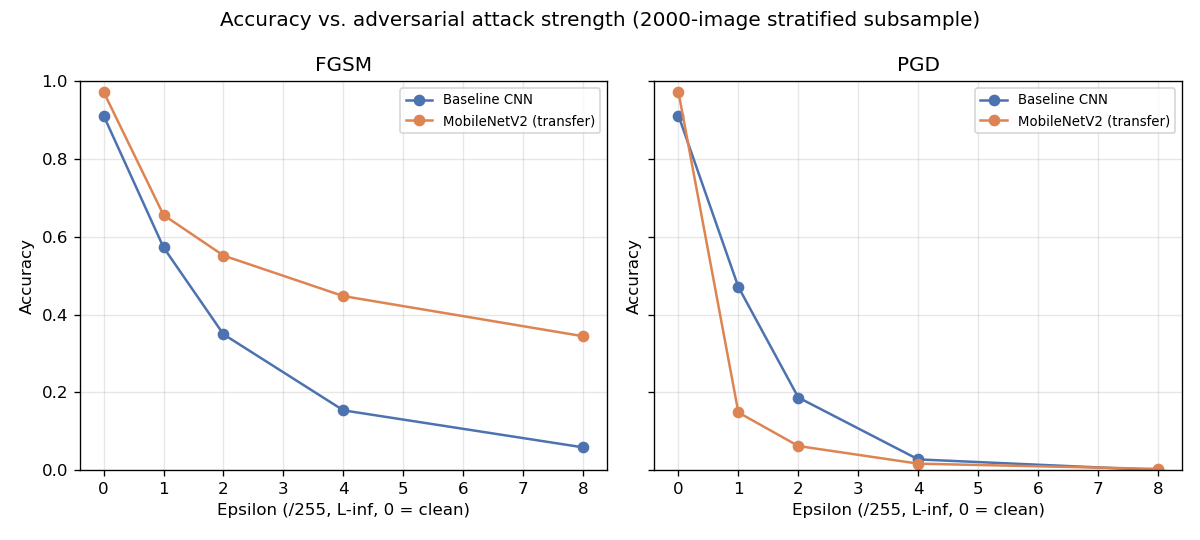
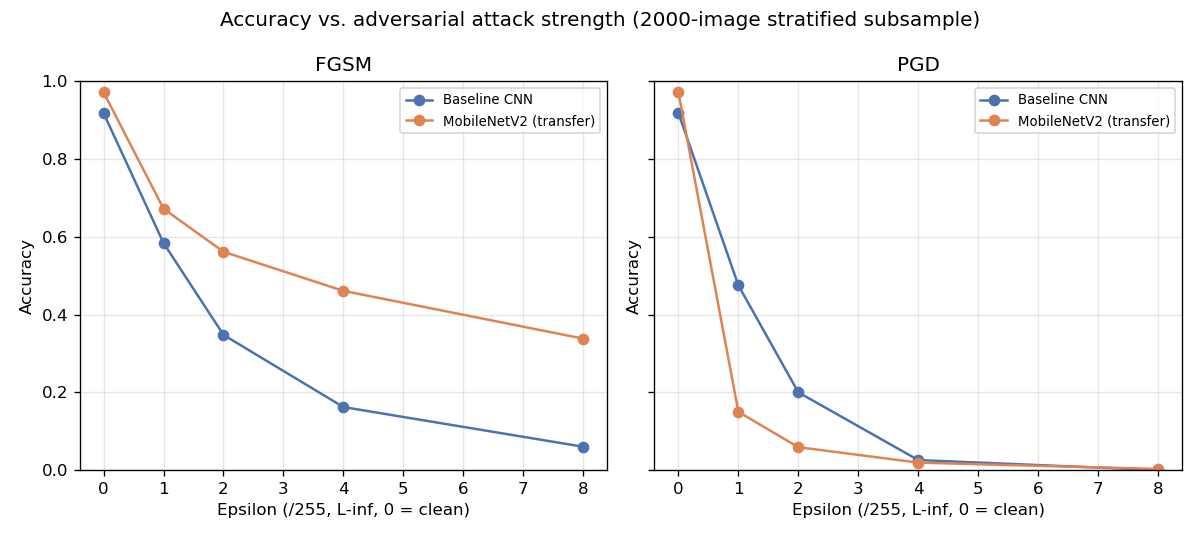
Use full test set for adversarial eval

diff --git a/scripts/eval_adversarial.py b/scripts/eval_adversarial.py
@@ -1,9 +1,6 @@
 """FGSM/PGD adversarial evaluation on the FP32 models (seed 42), across epsilon strengths.
 
-Uses a stratified subsample of the Test set (not the full 12,630 images): PGD requires a
-forward+backward pass per step, and at 10 steps x 4 epsilons x 2 models the full test set
-would take a long time for limited extra statistical value. 2000 stratified samples keeps
-per-class representation while making iterative attacks tractable.
+Runs on the full 12,630-image Test set.
 """
 
 import json
@@ -29,7 +26,6 @@ RAW_DIR = ROOT / "data" / "raw"
 CKPT_DIR = ROOT / "checkpoints"
 REPORTS_DIR = ROOT / "reports"
 
-N_SUBSAMPLE = 2000
 EPSILONS = [1 / 255, 2 / 255, 4 / 255, 8 / 255]
 PGD_STEPS = 10
 
@@ -47,13 +43,6 @@ ARCHS = {
         "ckpt": "mobilenet_transfer_seed42.pt",
     },
 }
-
-
-def stratified_subsample(df, n_total: int, seed: int):
-    frac_df = df.groupby("ClassId", group_keys=False).apply(
-        lambda g: g.sample(max(1, round(len(g) * n_total / len(df))), random_state=seed)
-    )
-    return frac_df.reset_index(drop=True)
 
 
 def run_attack_eval(model, loader, device, attack: str, epsilon: float):
@@ -90,8 +79,7 @@ def main():
     print(f"Using device: {device}")
 
     test_df = load_test_dataframe(RAW_DIR)
-    sub_df = stratified_subsample(test_df, N_SUBSAMPLE, seed=42)
-    print(f"Adversarial eval subsample: {len(sub_df)} images across {sub_df['ClassId'].nunique()} classes")
+    print(f"Adversarial eval set: {len(test_df)} images across {test_df['ClassId'].nunique()} classes")
 
     results = {}
     for arch_name, cfg in ARCHS.items():
@@ -100,15 +88,15 @@ def main():
         model = NormalizedModel(base_model, cfg["mean"], cfg["std"]).to(device).eval()
 
         pixel_transform = get_transform(mean=[0.0, 0.0, 0.0], std=[1.0, 1.0, 1.0])
-        ds = GTSRBDataset(sub_df, transform=pixel_transform)
+        ds = GTSRBDataset(test_df, transform=pixel_transform)
         loader = DataLoader(ds, batch_size=64, shuffle=False, num_workers=0)
 
         with torch.no_grad():
             clean_correct = sum(
                 (model(x.to(device)).argmax(1) == y.to(device)).sum().item() for x, y in loader
             )
-        clean_accuracy = clean_correct / len(sub_df)
-        print(f"{arch_name} clean subsample accuracy: {clean_accuracy:.4f}")
+        clean_accuracy = clean_correct / len(test_df)
+        print(f"{arch_name} clean accuracy: {clean_accuracy:.4f}")
 
         arch_results = {"clean_accuracy": clean_accuracy, "fgsm": [], "pgd": []}
         for epsilon in EPSILONS:

diff --git a/scripts/eval_transfer_attacks.py b/scripts/eval_transfer_attacks.py
@@ -34,7 +34,6 @@ CKPT_DIR = ROOT / "checkpoints"
 ONNX_DIR = ROOT / "onnx"
 REPORTS_DIR = ROOT / "reports"
 
-N_SUBSAMPLE = 2000
 EPSILONS = [1 / 255, 2 / 255, 4 / 255, 8 / 255]
 PGD_STEPS = 10
 
@@ -52,13 +51,6 @@ ARCHS = {
         "ckpt": "mobilenet_transfer_seed42.pt",
     },
 }
-
-
-def stratified_subsample(df, n_total: int, seed: int):
-    frac_df = df.groupby("ClassId", group_keys=False).apply(
-        lambda g: g.sample(max(1, round(len(g) * n_total / len(df))), random_state=seed)
-    )
-    return frac_df.reset_index(drop=True)
 
 
 def run_transfer_eval(fp32_model, onnx_sess, input_name, loader, device, attack: str, epsilon: float):
@@ -96,8 +88,7 @@ def main():
     print(f"Using device: {device}")
 
     test_df = load_test_dataframe(RAW_DIR)
-    sub_df = stratified_subsample(test_df, N_SUBSAMPLE, seed=42)
-    print(f"Transfer-attack eval subsample: {len(sub_df)} images")
+    print(f"Transfer-attack eval set: {len(test_df)} images")
 
     results = {}
     for arch_name, cfg in ARCHS.items():
@@ -109,15 +100,15 @@ def main():
         input_name = onnx_sess.get_inputs()[0].name
 
         pixel_transform = get_transform(mean=[0.0, 0.0, 0.0], std=[1.0, 1.0, 1.0])
-        ds = GTSRBDataset(sub_df, transform=pixel_transform)
+        ds = GTSRBDataset(test_df, transform=pixel_transform)
         loader = DataLoader(ds, batch_size=64, shuffle=False, num_workers=0)
 
         clean_correct = 0
         for images, labels in loader:
             logits = onnx_sess.run(None, {input_name: images.numpy().astype(np.float32)})[0]
             clean_correct += (logits.argmax(axis=1) == labels.numpy()).sum()
-        clean_accuracy = clean_correct / len(sub_df)
-        print(f"{arch_name} INT8 clean subsample accuracy: {clean_accuracy:.4f}")
+        clean_accuracy = clean_correct / len(test_df)
+        print(f"{arch_name} INT8 clean accuracy: {clean_accuracy:.4f}")
 
         arch_results = {"clean_accuracy": float(clean_accuracy), "fgsm": [], "pgd": []}
         for epsilon in EPSILONS:
